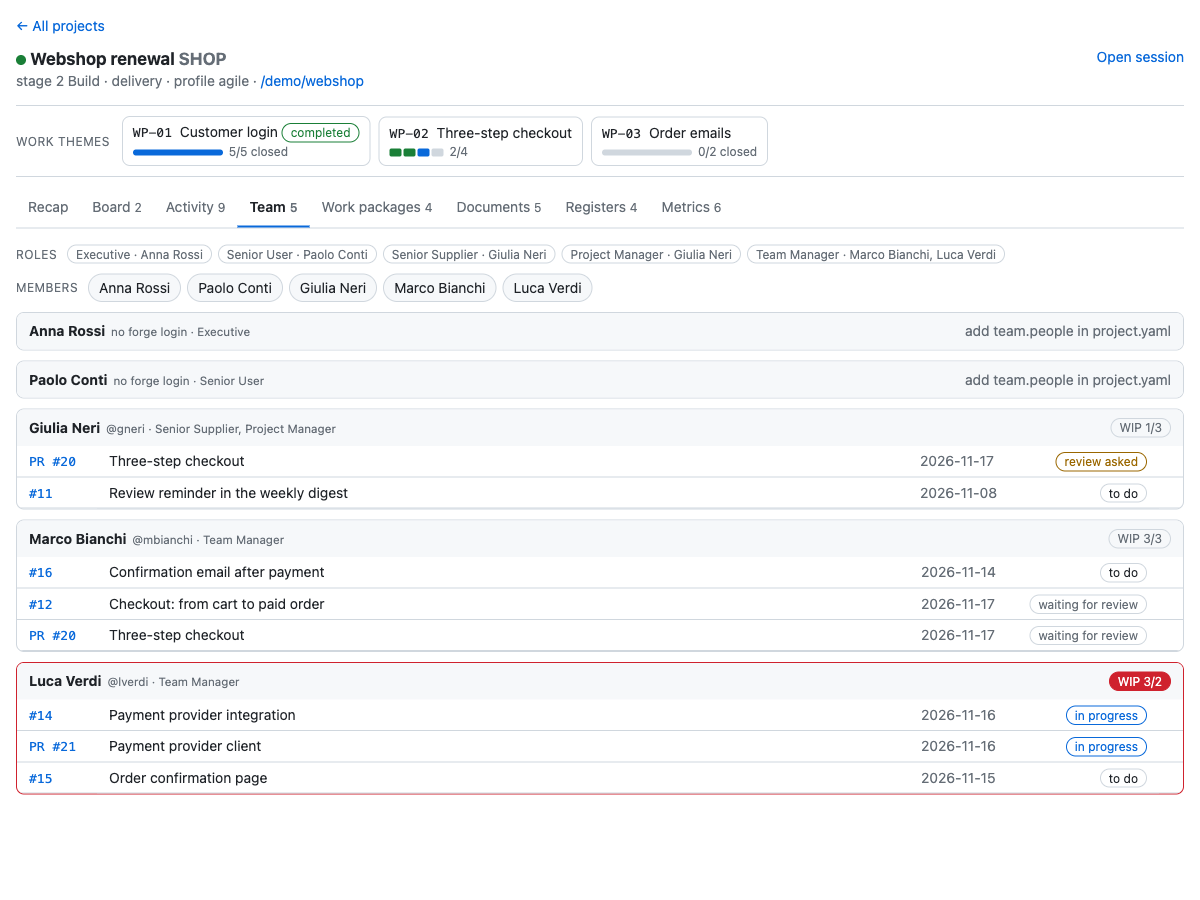
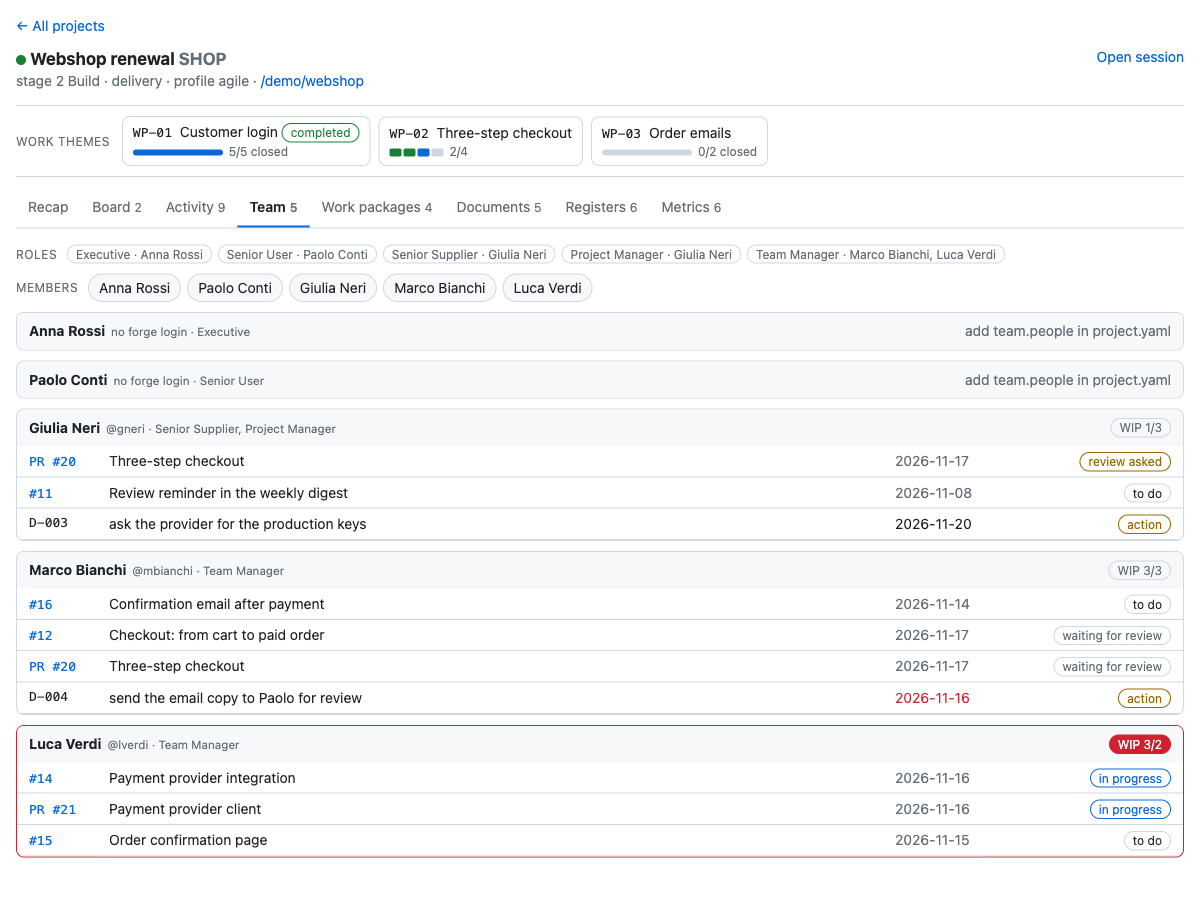
docs: align README, guide and scope with the desk changes of #79 and #80 (#81)
The guide still showed the Link column of the work packages and said
nothing of Daily Log actions: owners assigned from the desk, and open
actions listed per person in Team. The scope table gains the new
direct action and the helper's rule on owner names; the Team and
Work packages screenshots are rendered again from the demo, which
gains an overdue action.

Changed region(s): [[0.0, 0.4978, 0.9867, 0.9644], [0.0308, 0.8711, 0.0617, 0.9644]]

diff --git a/README.md b/README.md
@@ -21,7 +21,9 @@ task's journey from assignment to merge.
   and pull requests, commits with notes. The Team tab shows the roles on top, then each person with the
   open issues and pull requests that are theirs — to do, in progress, review asked, waiting for
   review, stalled — filterable by member; a red `WIP <person> n/limit` badge on the card and in
-  the recap flags anyone over their work-in-progress limit. Logins and limits come from the
+  the recap flags anyone over their work-in-progress limit. Under each person sit the open Daily Log
+  actions they own, overdue in red; actions with no owner, or an owner outside the project's people,
+  sit in a *No team member* card. Logins and limits come from the
   `team:` section of `project.yaml`. The Activity tab shows the repo's open milestones — progress,
   due day, stalled items, pulls in review, and the work package carrying each — its open pull
   requests, and its open issues grouped by milestone; an open issue missing a readiness heading
@@ -34,12 +36,13 @@ task's journey from assignment to merge.
   (`/pm-roadmap`, or drag and drop in the browser page); in Documents, in the
   browser with the helper, a Markdown document opens rendered as a page styled like the desk; and
   Registers holds risks (with their response and Claude's verdict on it), approvals, problems (the PRINCE2 issue register),
-  lessons, iterations and the Daily log, filterable by day, kind and text.
+  lessons, iterations and the Daily log, filterable by day, kind and text, whose open actions can be
+  given an owner from the browser page.
   The same desk is a local browser page, where
   checked issues and pull requests are grouped into a work package.
 - **Actions on the desk.** Archive or complete a work package, place it on the roadmap by drag and
   drop, link it, close a note, package issues, attach an item to a work package, create an issue,
-  assign or unassign checked items: each shows the change and writes it on Confirm, without opening a
+  assign or unassign checked items, give checked Daily Log actions an owner: each shows the change and writes it on Confirm, without opening a
   session; text — reports, digests, presentations — is still drafted in a session with its skill.
   In the browser the actions need **Python 3** (a standard-library helper the mod starts); without
   it the page stays read-only. What acts directly and why: [docs/scope.md](docs/scope.md).

diff --git a/docs/index.md b/docs/index.md
@@ -53,6 +53,8 @@ assigning is on the Team and Activity tabs.
 **Team** — each person with their open items and whose move it is. Luca is over his WIP limit of 2;
 Giulia has a review waiting for her. Check items here or on Activity — the selection is shared —
 and assign or unassign them with the one *Assign to…* control on top, or drop an item on a person.
+Under each person sit the open Daily Log actions they own, overdue in red; an action with no owner,
+or with someone outside the project's people, sits in the *No team member* card.
 
 ![Team](images/team.png)
 
@@ -61,7 +63,9 @@ internal notes on its commits (here an open blocker).
 
 ![Work theme](images/work-theme.png)
 
-**Work packages** grouped by roadmap horizon, with estimate, actual and deviation — drag one into
+**Work packages** grouped by roadmap horizon, with status, estimate, actual and deviation; the id
+opens the work package's page, and the last column holds its action — *Link…* while nothing is
+linked, *Mark completed*, *Archive* once completed — drag one into
 another horizon, or above or below another, to place it, or onto *Not placed* to take it off the
 roadmap (an empty horizon shows as a drop zone); **Metrics** gives
 lead time, review and merge time and the weekly throughput.
@@ -74,7 +78,8 @@ The other tabs: **Activity** (milestones, open issues and pull requests, with a 
 package or assign many at once), **Documents** (the `.pm/` products; a Markdown document opens as a
 readable HTML page when the desk helper serves the page), **Registers** (risks with their response
 and Claude's verdict on it, approvals, problems, lessons, iterations, then the Daily Log, each kind
-of entry in its own colour and filterable by day, kind and text; a high risk stays in *Needs
+of entry in its own colour and filterable by day, kind and text, its open actions checked and given
+an owner with *Assign to…*, which offers every person of `roles` and `team.people`; a high risk stays in *Needs
 attention* until its response is adequate and you confirm the closure).
 
 ## A task from assignment to merge

diff --git a/docs/scope.md b/docs/scope.md
@@ -41,6 +41,7 @@ the PM reads it before it is saved.
 | Link an issue, milestone or branch | `issue:`, `milestone:`, `branch:` of a work package | button, preview, confirm |
 | Group issues and pull requests into a package | a forge milestone, and a new `WP-<nn>.md` | button, preview of the plan, confirm |
 | Assign / unassign a team member | the assignees of the open issues and pull requests checked on the Team or Activity tab | checkboxes and one *Assign to…* select on top, or a drop on a member; preview before / after, confirm |
+| Give Daily Log actions an owner | `owner:` of the open actions checked in the Daily Log, set to a person of `roles` or `team.people`, or removed | browser page only: checkboxes and *Assign to…* in Registers, preview before / after, confirm |
 | Create an issue | a new forge issue, optionally in a work package's milestone and assigned to a team member | dialog, preview, confirm |
 | Attach an issue or pull request to a work package | the milestone of an open item on the forge: the work package's `milestone:`, created after the work package's title when it has none | a drop on a work package (drag dock or Board lane), preview old / new milestone, confirm; a checked group goes through *Create package* |
 | Digest, Highlight Report, Presentation, Retrospective, issue draft | new text | opens a session with the skill |
@@ -64,7 +65,8 @@ shown again.
     in its horizon, and assigning many patches each checked item.
   - It serves a project's Markdown documents as read-only HTML pages (`GET /doc`): only `.md`
     files inside a registered project, rendered with every tag escaped and scripts blocked.
-  - It assigns only the logins of `team.people`, and writes nothing on a project whose
+  - It assigns only the logins of `team.people`, gives a Daily Log action only an owner named in
+    `roles` or `team.people`, and writes nothing on a project whose
     checkout has no `.pm/`.
   - Forge writes go through the CLI the user has already authenticated (`gh`, `fj`). No new
     token is needed.
